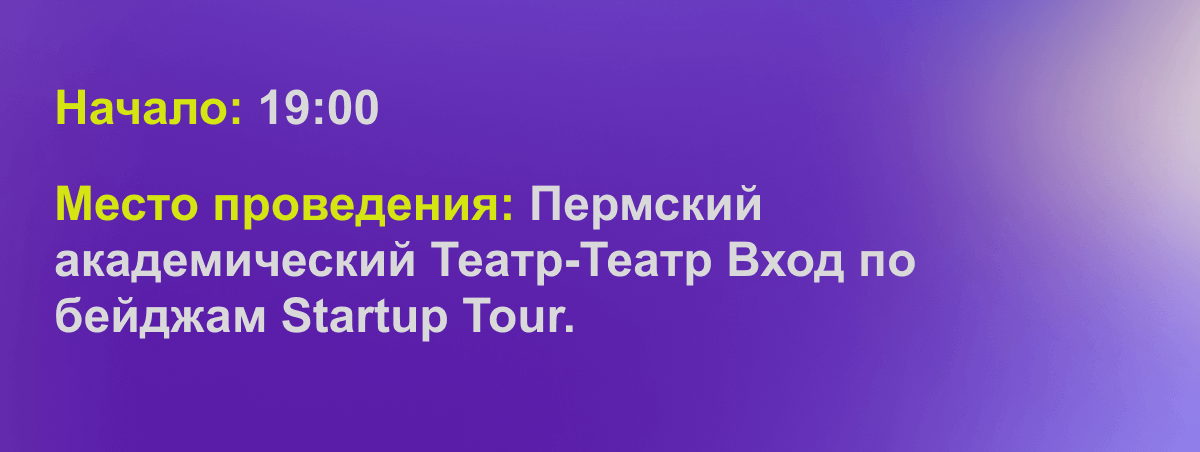
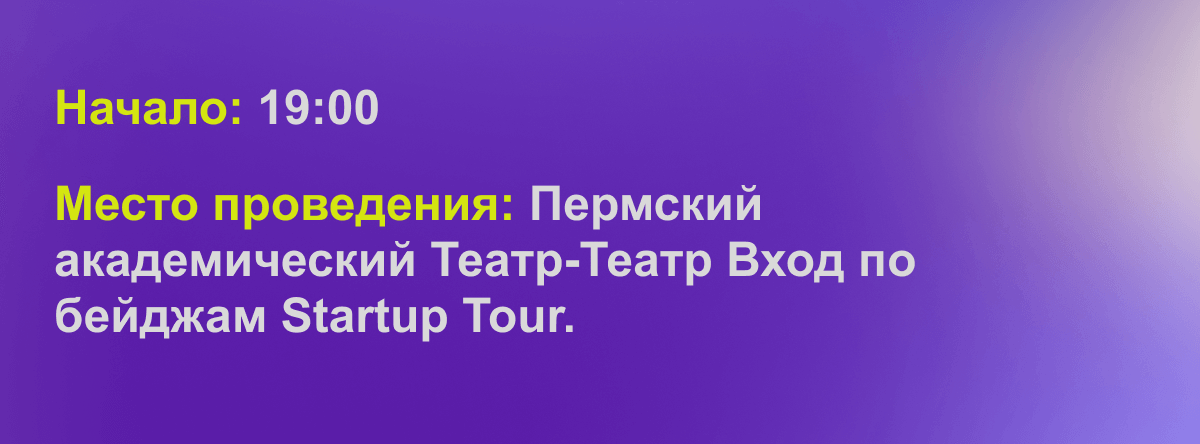
add perm-solyaris

diff --git a/perm-solyaris/Пермь-солярис.html b/perm-solyaris/Пермь-солярис.html
@@ -312,7 +312,7 @@
                                   <img
                                     alt="Начало: 19:00. Место проведения: Пермский академический Театр-Театр Вход по бейджам Startup Tour."
                                     height="auto"
-                                    src="https://i.ibb.co/N2p0929/bg-img.png"
+                                    src="https://i.ibb.co/VLTC5Gh/bg-img.png"
                                     style="
                                       border: 0;
                                       display: block;
@@ -360,7 +360,7 @@
                                       alt="Количество мест ограничено,
 регистрация здесь: https://leader-id.ru/events/412013"
                                       height="auto"
-                                      src="https://i.ibb.co/tz4v1bz/bg-link.png"
+                                      src="https://i.ibb.co/4p9DdqW/bg-link.png"
                                       style="
                                         border: 0;
                                         display: block;
@@ -504,13 +504,13 @@
                                   >
                                     <tbody>
                                       <tr>
-                                        <td style="width: 107px">
+                                        <td>
                                           <a
                                             href="https://t.me/suv2018"
                                             target="_blank"
                                           >
                                             <img
-                                              alt="Image cover"
+                                              alt="Startup tour TG icon"
                                               height="auto"
                                               src="https://i.ibb.co/LhtY5Tm/startup-tour.png"
                                               style="
@@ -522,7 +522,6 @@
                                                 width: 100%;
                                                 font-size: 13px;
                                               "
-                                              width="107"
                                             />
                                           </a>
                                         </td>
@@ -597,7 +596,7 @@
                                   >
                                     <tbody>
                                       <tr>
-                                        <td style="width: 121px">
+                                        <td>
                                           <a
                                             href="https://t.me/skolkovolive"
                                             target="_blank"
@@ -615,7 +614,6 @@
                                                 width: 100%;
                                                 font-size: 13px;
                                               "
-                                              width="121"
                                             />
                                           </a>
                                         </td>

diff --git a/wbday-session/Сессии Wildberriesday.html b/wbday-session/Сессии Wildberriesday.html
@@ -706,9 +706,9 @@
                               <tr>
                                 <td style="width: 520px">
                                   <img
-                                    alt="12:20 | ROCKET SCIENCE"
+                                    alt="14:20 | ROCKET SCIENCE"
                                     height="auto"
-                                    src="https://i.ibb.co/TtQ4H1S/session-2.png"
+                                    src="https://i.ibb.co/YkMP9VS/session-2.png"
                                     style="
                                       border: 0;
                                       display: block;
